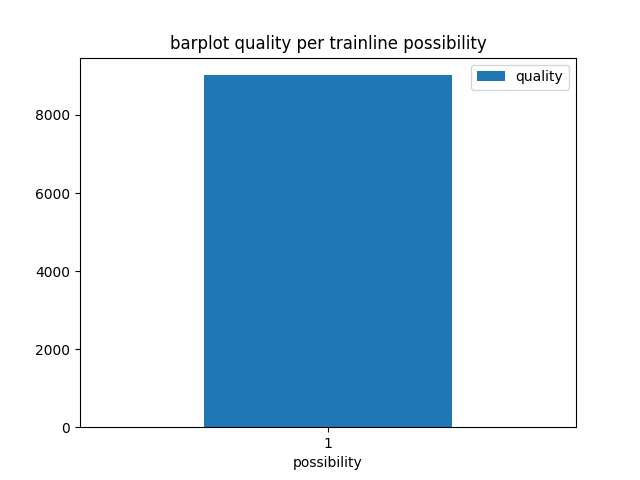
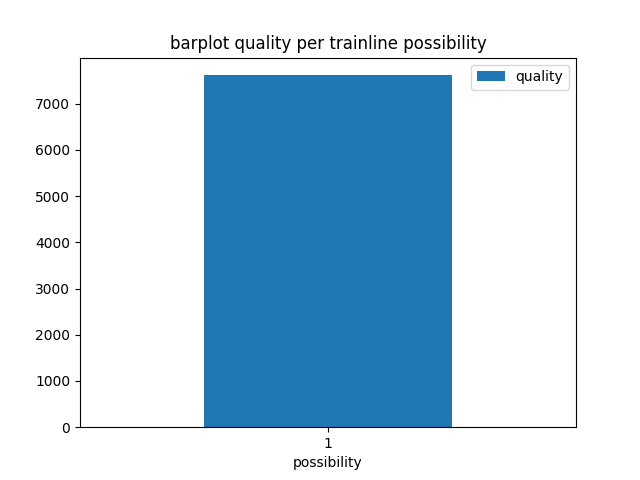
Nationale csv file getest

diff --git a/main.py b/main.py
@@ -19,13 +19,13 @@ PATH = Path(os.path.dirname(os.path.realpath(__file__)))
 
 def main():
     # load the stations for the creation of the graph
-    stations = Stations(PATH / "data" / "StationsHolland.csv")
+    stations = Stations(PATH / "data" / "StationsNationaal.csv")
 
     # load everything inside a graph
-    graph = Graph(PATH / "data" / "StationsHolland.csv", PATH / "data" / "ConnectiesHolland.csv")
+    graph = Graph(PATH / "data" / "StationsNationaal.csv", PATH / "data" / "ConnectiesNationaal.csv")
 
     # calculate trajects with the help of an algorithm
-    trajects = Traveling_Salesman_Rail(graph, 7, 120).run()
+    trajects = Traveling_Salesman_Rail(graph, 20, 180).run()
 
     # create a graph of all the trajects
     data = {train:stations.data_from_stations(trajects[train]) for train in trajects}
@@ -41,7 +41,7 @@ def main():
     output_data.reset_index(level=0, inplace=True)
     output_data.columns = ["train", "stations"]
     output_data = output_data.append({"train":"score", "stations": quality["quality"][0]}, ignore_index=True)
-    output_data.to_csv(PATH / "data" / "output.csv", index=False)
+    output_data.to_csv(PATH / "data" / "output_nat.csv", index=False)
     
 
 if __name__ == "__main__":
